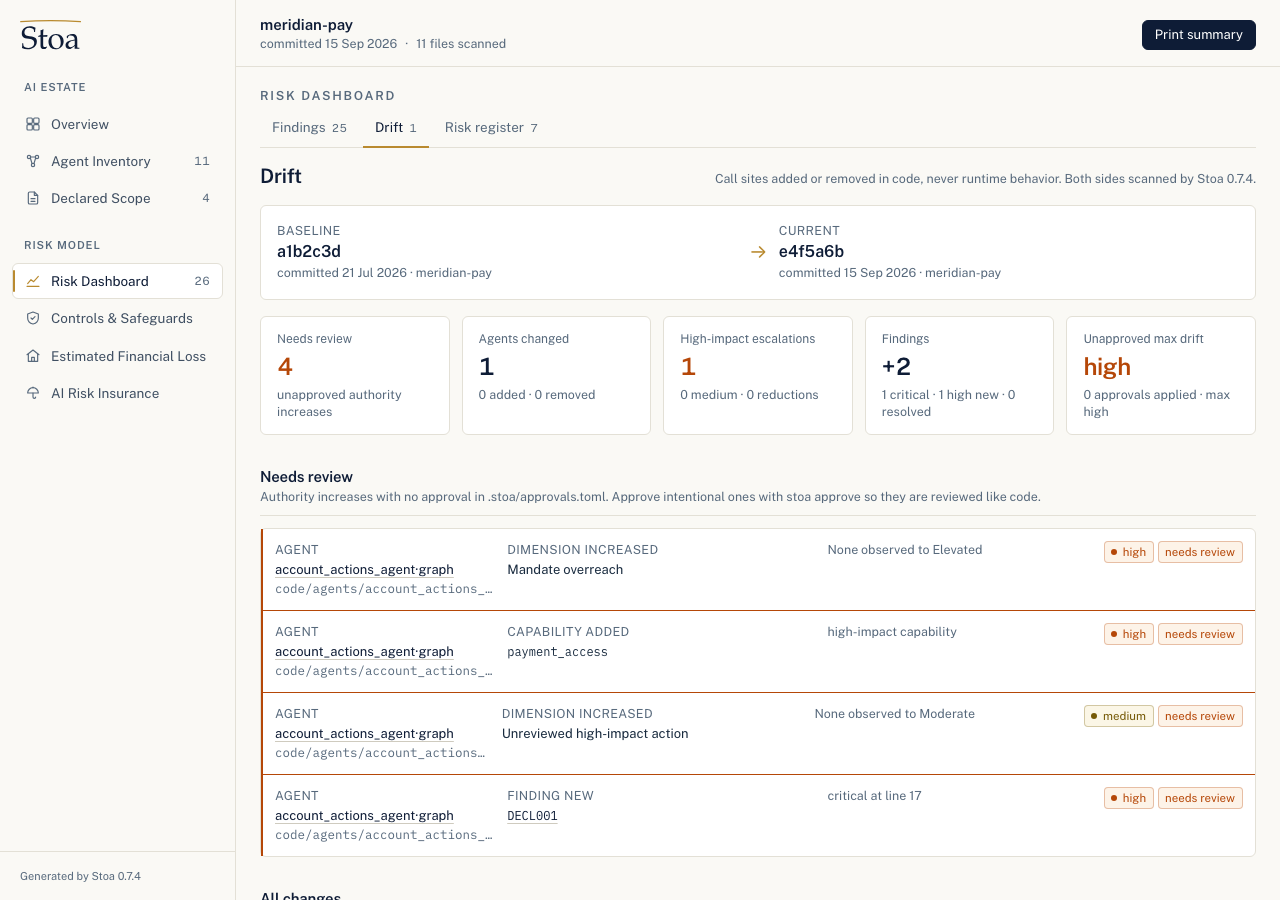
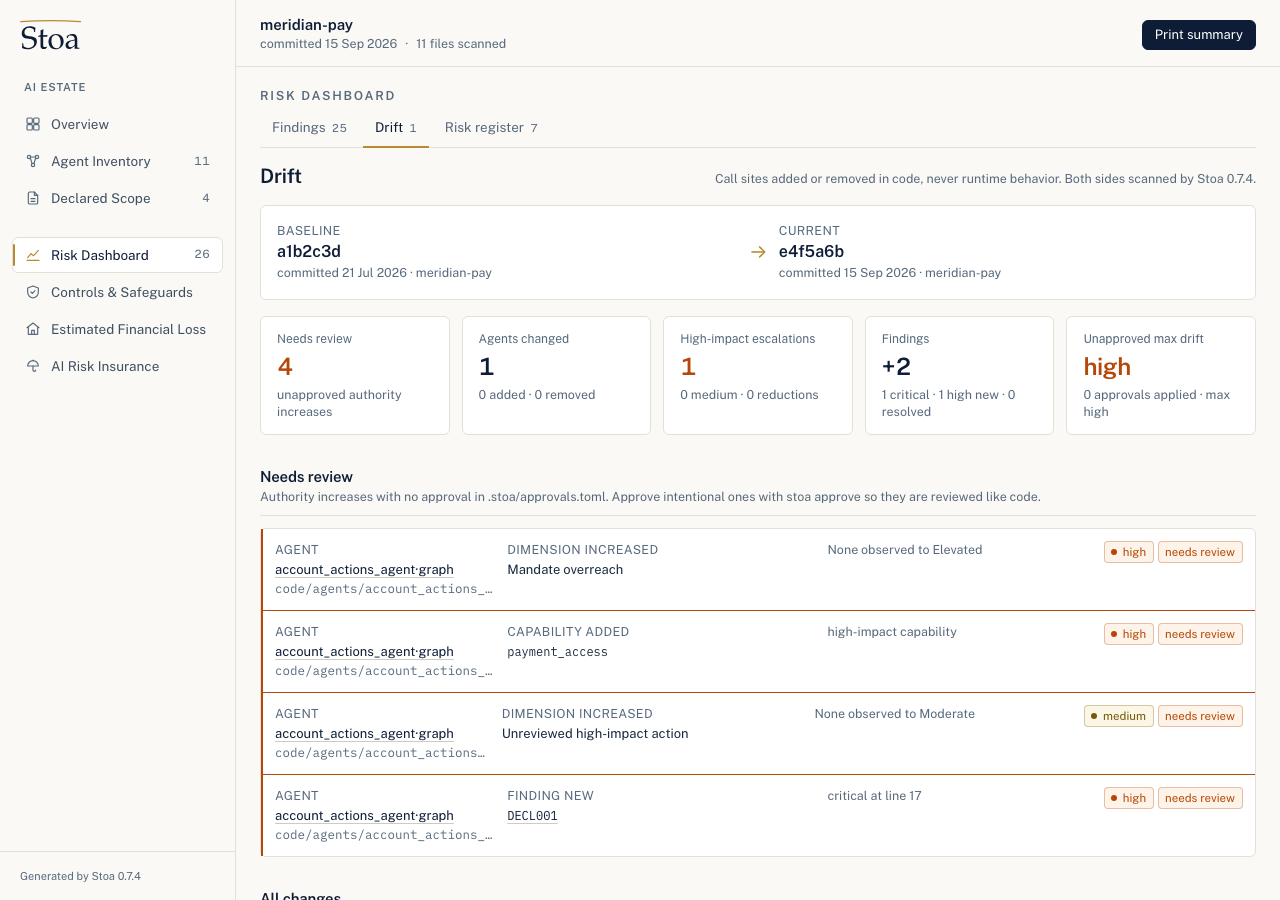
Dashboard: remove the Risk model group label from the sidebar

Changed region(s): [[0.0, 0.2489, 0.1562, 0.4667], [0.1562, 0.28, 0.1875, 0.3111]]

diff --git a/ui/src/components/Shell.tsx b/ui/src/components/Shell.tsx
@@ -8,6 +8,7 @@ import { Logo } from "./Logo";
 import { PrintSummary } from "./PrintSummary";
 
 type NavItem = { id: string; label: string; href: string; screens: ScreenId[]; count?: number; icon: IconName };
+type NavGroup = { label: string; showLabel: boolean; items: NavItem[] };
 
 export function Shell({ screen, children }: { screen: ScreenId; children: ReactNode }) {
   const { envelope } = useApp();
@@ -17,9 +18,10 @@ export function Shell({ screen, children }: { screen: ScreenId; children: ReactN
   const declared = r.agents.filter((a) => a.declared).length;
   const driftCount = envelope.diff ? envelope.diff.summary.agents_changed + envelope.diff.summary.agents_added + envelope.diff.summary.agents_removed : 0;
 
-  const groups: { label: string; items: NavItem[] }[] = [
+  const groups: NavGroup[] = [
     {
       label: "AI estate",
+      showLabel: true,
       items: [
         { id: "overview", label: "Overview", href: buildHash("overview"), screens: ["overview"], icon: "overview" },
         { id: "inventory", label: "Agent Inventory", href: buildHash("inventory"), screens: ["inventory"], count: r.agents.length, icon: "inventory" },
@@ -28,6 +30,7 @@ export function Shell({ screen, children }: { screen: ScreenId; children: ReactN
     },
     {
       label: "Risk model",
+      showLabel: false,
       items: [
         { id: "risk", label: "Risk Dashboard", href: buildHash("findings"), screens: ["findings", "drift", "register"], count: findingCount + driftCount, icon: "risk" },
         { id: "controls", label: "Controls & Safeguards", href: buildHash("controls"), screens: ["controls"], icon: "controls" },
@@ -48,7 +51,7 @@ export function Shell({ screen, children }: { screen: ScreenId; children: ReactN
         <div className="flex md:flex-col gap-1 md:gap-5 overflow-x-auto w-full px-2 md:px-3 py-2">
           {groups.map((group) => (
             <div key={group.label} className="flex md:flex-col gap-1 shrink-0">
-              <div className="eyebrow hidden md:block px-3 pb-1.5">{group.label}</div>
+              {group.showLabel ? <div className="eyebrow hidden md:block px-3 pb-1.5">{group.label}</div> : null}
               <ul className="m-0 p-0 list-none flex md:flex-col gap-px">
                 {group.items.map((item) => {
                   const active = item.screens.includes(screen);
